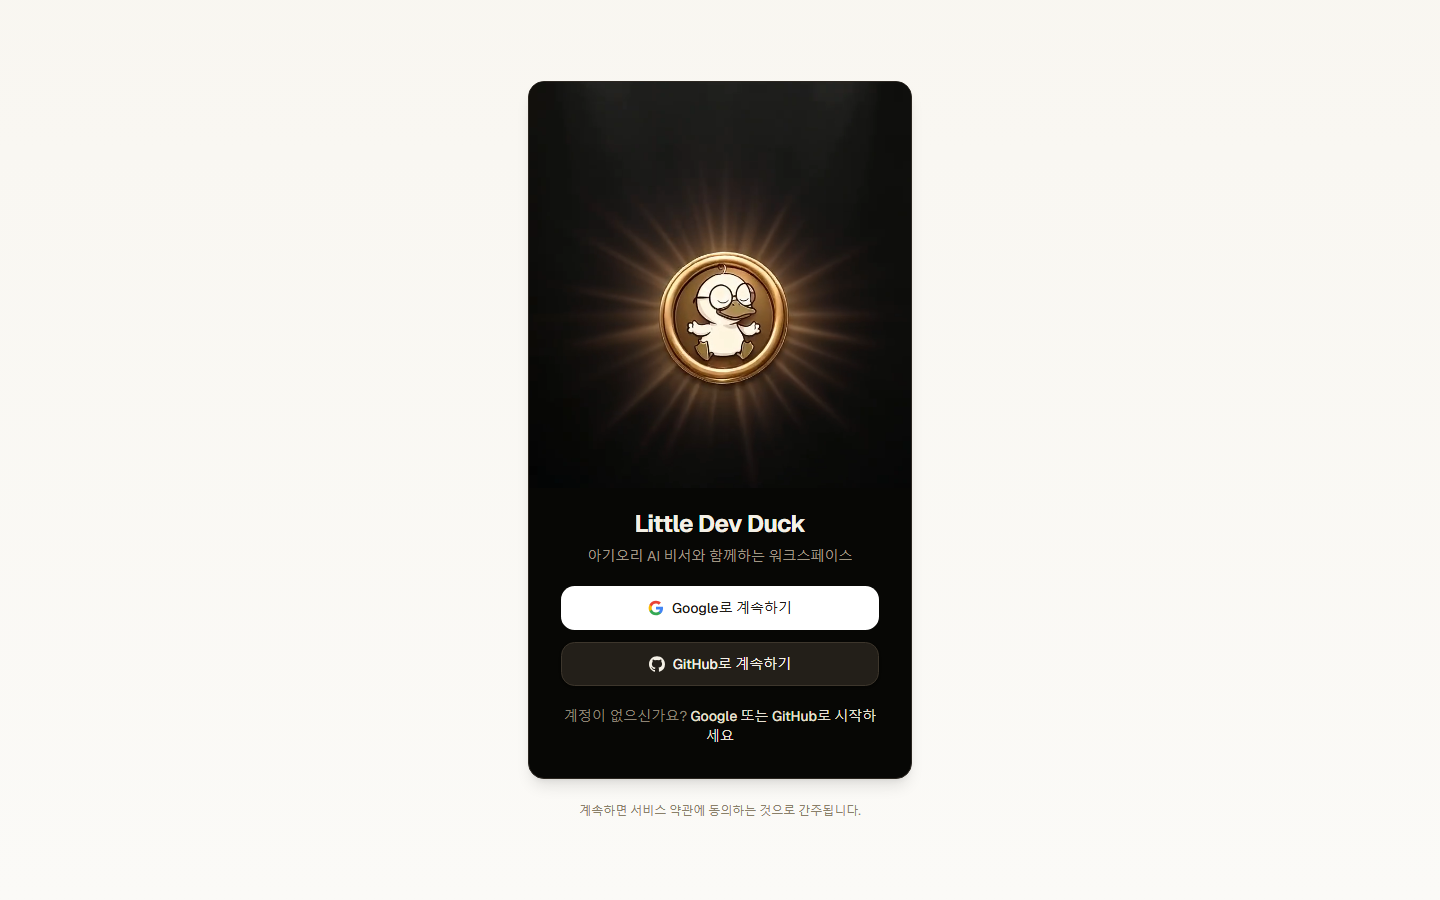
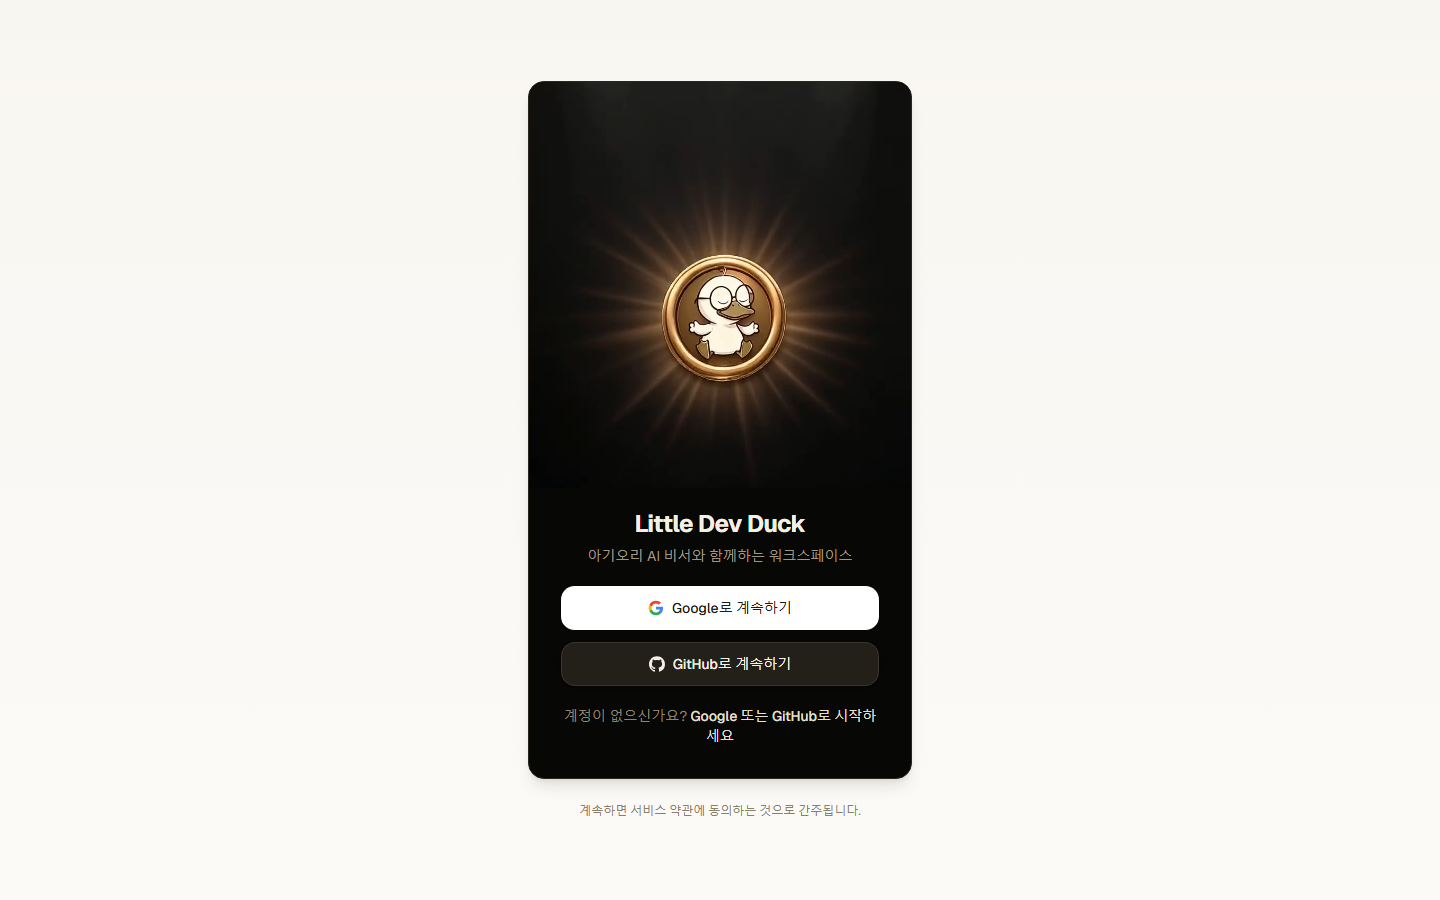
fix: 랜딩 제목에 브랜드가 두 번 나오던 것 + 최종 출력 가드
프로덕션 실측:
  <title>Little Dev Duck — 오리가 사는 개인 워크스페이스 — Little Dev Duck</title>

root layout이 title.template("%s — Little Dev Duck")으로 브랜드를 자동으로 붙이는데
welcome/page.tsx가 title에 브랜드를 또 넣고 있었다. 검색 결과·브라우저 탭·북마크에
그대로 노출되는 값이고, 랜딩은 유일한 공개 진입점이다.

주목할 점은 같은 규칙이 p/[slug]/page.tsx에 **주석으로 이미 적혀 있었다**는 것이다
("직접 붙이면 브랜드가 두 번 나온다"). 지식도 있었고 적용한 파일도 있었는데, 강제하는
장치가 없어 다른 파일이 같은 함정을 그대로 밟았다. 메타데이터는 문자열일 뿐이라
타입체크·린트·유닛을 전부 통과한다 — 아무도 완성된 출력을 본 적이 없었다.

그래서 가드를 소스 파싱이 아니라 **브라우저가 실제로 받는 page.title() 값**으로 걸었다.
템플릿·상속·병합이 다 적용된 뒤의 값이라 파서보다 정확하고 오탐이 없다.

부수로 검증 신뢰성 함정 하나를 기록했다: playwright.config의 webServer가 next start
(프로덕션 서버)라 소스를 고쳐도 직전 빌드가 서빙된다. 이번에 실제로 겪었다 — 제목을
고쳤는데 옛 값이 계속 나왔다. 실패뿐 아니라 **조용한 거짓 통과**로도 나타날 수 있어
e2e/README.md에 명시했다. 앱 소스를 건드렸으면 pnpm e2e로 돌려야 한다.

lessons-learned L-13·L-14 추가.
검증: pnpm e2e 16 passed / 38 skipped, turbo test·lint·build 18/18.

Changed region(s): [[0.4375, 0.28, 0.5625, 0.4356]]

diff --git a/apps/web/src/app/welcome/page.tsx b/apps/web/src/app/welcome/page.tsx
@@ -14,8 +14,13 @@ import { GitHubMark } from "@/components/ui/github-mark";
 // 랜딩 트래픽 규모에서 per-request 렌더 비용은 무시할 수준.
 export const dynamic = "force-dynamic";
 
+// title에 브랜드를 직접 붙이지 않는다 — root layout의 title.template("%s — Little Dev Duck")이
+// 문자열 title에 자동으로 붙이므로 직접 붙이면 브랜드가 두 번 나온다.
+// (2026-07-26 프로덕션 실측: "Little Dev Duck — 오리가 사는 개인 워크스페이스 — Little Dev Duck".
+//  같은 규칙이 p/[slug]에는 주석으로 적혀 있었는데 이 페이지만 어기고 있었다.
+//  랜딩은 검색 결과·브라우저 탭에 그대로 노출되는 유일한 공개 진입점이다.)
 export const metadata = {
-  title: "Little Dev Duck — 오리가 사는 개인 워크스페이스",
+  title: "오리가 사는 개인 워크스페이스",
   description:
     "3D 아기오리 AI 비서가 상주하는 개인 워크스페이스. 위젯 대시보드, 노션급 블록 에디터, 내 자료로 답하고 실제 작업을 대신하는 오리.",
 };

diff --git a/apps/web/e2e/public-visual.spec.ts b/apps/web/e2e/public-visual.spec.ts
@@ -80,6 +80,13 @@ for (const vp of VIEWPORTS) {
           document.documentElement.clientWidth,
       );
       expect(overflow, "가로 overflow").toBe(false);
+
+      // root layout의 title.template("%s — Little Dev Duck")이 브랜드를 자동으로 붙이므로
+      // 페이지가 title에 브랜드를 또 넣으면 두 번 나온다. 소스를 파싱하지 않고 **브라우저가
+      // 실제로 받는 값**으로 검사한다 — 2026-07-26 프로덕션에서 랜딩이 이 상태였다.
+      const title = await page.title();
+      const brandCount = title.split("Little Dev Duck").length - 1;
+      expect(brandCount, `제목에 브랜드 중복: ${title}`).toBe(1);
       // 실패 응답을 먼저 본다 — 콘솔 메시지엔 URL이 없어 이쪽이 진단에 쓸모 있다.
       expect(failedResponses, "실패한 요청").toEqual([]);
       expect(realConsoleErrors, "콘솔 오류").toEqual([]);

diff --git a/docs/loop-eng/screenshots/2026-07-26/public-surfaces/index.md b/docs/loop-eng/screenshots/2026-07-26/public-surfaces/index.md
@@ -38,7 +38,25 @@
 
 조치: Vercel 대시보드 토글이라 코드로 못 고친다 → `docs/loop-eng/PENDING.md`.
 
-### 2. 레이아웃 — 이상 없음
+### 2. 랜딩 제목에 브랜드가 두 번 나왔다 [확인됨·수정함]
+
+프로덕션 실측:
+
+```
+<title>Little Dev Duck — 오리가 사는 개인 워크스페이스 — Little Dev Duck</title>
+```
+
+root layout이 `title.template: "%s — Little Dev Duck"`으로 브랜드를 자동으로 붙이는데
+`welcome/page.tsx`가 title에 브랜드를 또 넣고 있었다. 검색 결과·브라우저 탭·북마크에
+그대로 노출되는 값이고, 랜딩은 유일한 공개 진입점이다.
+
+같은 규칙이 `p/[slug]/page.tsx:19`에는 **주석으로 이미 적혀 있었다** — 규칙은 알고 있었는데
+강제하는 장치가 없어 다른 페이지가 어겼다. 그래서 소스 파싱이 아니라 **브라우저가 실제로
+받는 `<title>` 값**으로 검사하도록 `public-visual.spec.ts`에 가드를 넣었다.
+
+수정 후: `오리가 사는 개인 워크스페이스 — Little Dev Duck`.
+
+### 3. 레이아웃 — 이상 없음
 
 데스크톱·모바일 네 조합 모두 가로 overflow 없음. `/_vercel/*` 외 실패 요청 없음,
 콘솔 오류 없음.

diff --git a/apps/web/e2e/README.md b/apps/web/e2e/README.md
@@ -1,8 +1,11 @@
 # E2E (Playwright)
 
-`pnpm exec playwright test` — apps/web에서 실행. `playwright.config.ts`가 포트 3100에서
-자체 dev 서버를 띄운다(로컬 개발 서버가 보통 쓰는 3000과 겹치지 않게 분리 — 다른 프로세스와의
-포트 충돌 방지).
+**`pnpm e2e`로 실행한다** (= `next build && playwright test`). `playwright.config.ts`의
+webServer는 `next start` — 즉 **미리 빌드된 결과물**을 서빙하는 프로덕션 서버다(dev 서버가
+아니라서 hot reload가 없다). 그래서 `playwright test`만 단독으로 부르면 **소스를 고쳐도 직전
+빌드가 그대로 서빙되어** 통과/실패가 실제 코드와 어긋난다(2026-07-26에 실제로 겪음 —
+메타데이터를 고쳤는데 옛 값이 계속 나왔다). 앱 소스를 건드렸으면 반드시 빌드를 먼저 한다.
+포트는 3100 (로컬 개발 서버가 보통 쓰는 3000과 겹치지 않게 분리 — 포트 충돌 방지).
 
 `auth-redirect.spec.ts`, `responsive.spec.ts`(로그인 페이지 부분)는 로그인 없이 바로 돈다.
 `widgets.spec.ts`(투두/메모), `todo-recurrence.spec.ts`(반복 할 일),
